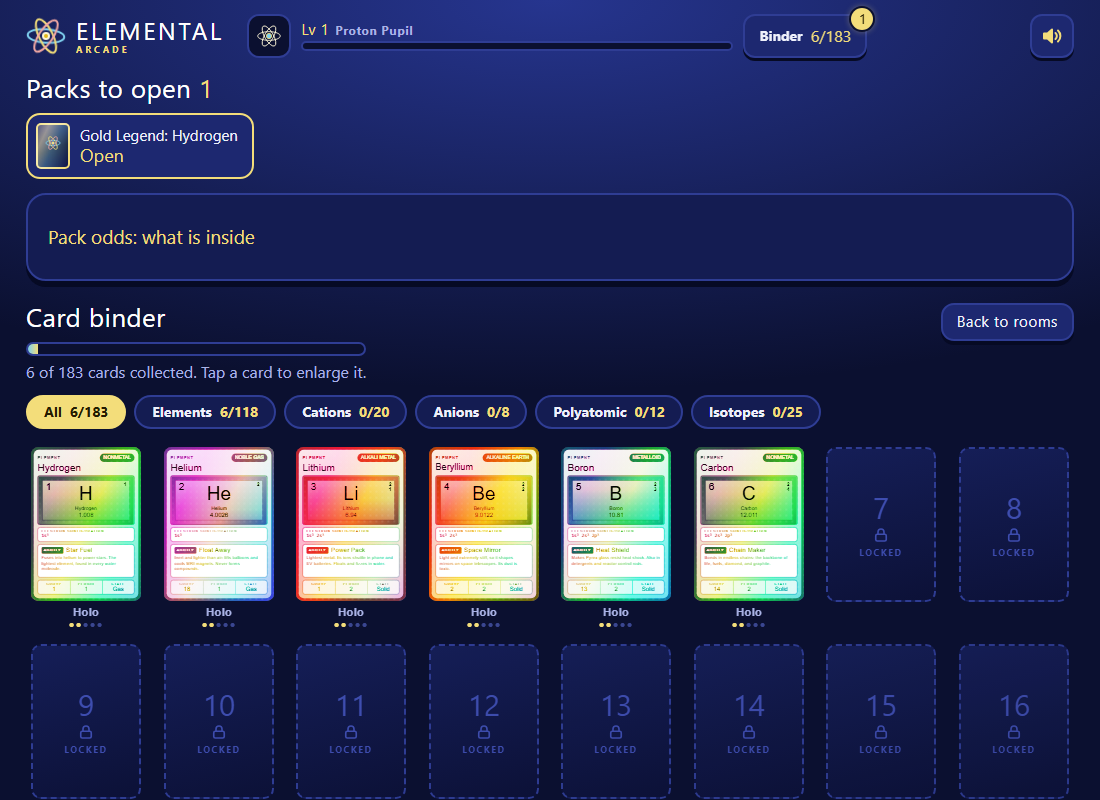
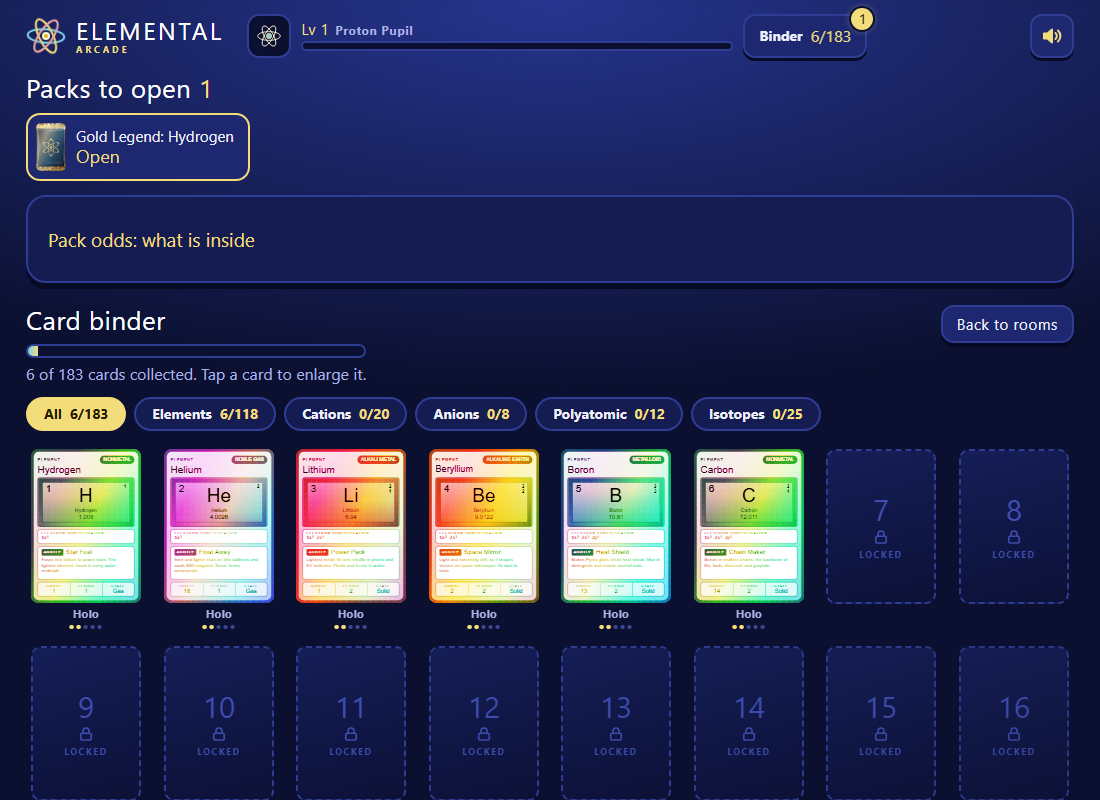
Pack art: generated wrapper (fal-ai/flux-2/flash, ~$0.047 incl. probe)
Probed flux-2/flash, flux/schnell and recraft-v3 with one prompt at
768x1024. flash scored 5.0 (recraft printed a Pokemon name, schnell lost
the gold); its probe image ships as img/pack.webp (local flood-fill to
transparent, 440x712, 41 KB). Used for the big pack and the binder
thumbnail with a masked CSS sheen; the tear strip is the pack's own top.
Card backs, finishes and gold icons stay CSS. Probe table and spend in
design/pack-art.md. No key in the repo.

diff --git a/index.html b/index.html
@@ -333,6 +333,10 @@ body.pkopen{overflow:hidden}
 .pkhint{margin:0;color:var(--mute);font-size:14px;text-align:center;min-height:1.4em}
 .pkart{position:relative;display:block;overflow:hidden;border-radius:10px;background:linear-gradient(160deg,#1d2870,#0b1030 55%,#161f58);box-shadow:inset 0 0 0 3px #f3dd7a,inset 0 0 0 6px #0b1030,inset 0 0 0 8px #a98d1a}
 .pkart.lg{width:min(220px,58vw);aspect-ratio:3/4}
+.pkart.pkimg{background:url(img/pack.webp) center/100% 100% no-repeat;box-shadow:none;border-radius:6px;aspect-ratio:440/712}
+.pkart.pkimg.lg{width:min(210px,52vw)}
+.pkart.pkimg.sm{width:30px;height:auto;box-shadow:none}
+.pkart.pkimg .pkfoil{-webkit-mask:url(img/pack.webp) center/100% 100%;mask:url(img/pack.webp) center/100% 100%}
 .pkart.sm{width:34px;height:46px;border-radius:5px;flex:none;box-shadow:inset 0 0 0 2px #f3dd7a}
 .pkart.card{width:100%;height:100%;border-radius:10px}
 .pkfoil{position:absolute;inset:0;background:linear-gradient(115deg,transparent 20%,rgba(243,221,122,.0) 30%,rgba(255,240,180,.55) 45%,rgba(127,209,240,.35) 55%,transparent 70%);background-size:260% 260%;animation:finsheen 3.8s linear infinite;mix-blend-mode:screen}
@@ -343,7 +347,7 @@ body.pkopen{overflow:hidden}
 .pkcrimp{position:absolute;left:0;right:0;height:10px;background:repeating-linear-gradient(90deg,#f3dd7a 0 6px,#a98d1a 6px 12px)}
 .pkcrimp.t{top:0}.pkcrimp.b{bottom:0}
 .pack{position:relative;touch-action:none;cursor:grab;user-select:none;-webkit-user-select:none;filter:drop-shadow(0 18px 30px rgba(0,0,0,.5))}
-.pkstrip{position:absolute;left:0;right:0;top:0;height:16%;border-radius:10px 10px 0 0;background:repeating-linear-gradient(90deg,#f3dd7a 0 6px,#a98d1a 6px 12px);box-shadow:0 2px 0 rgba(0,0,0,.25);transition:transform .2s}
+.pkstrip{position:absolute;left:0;right:0;top:0;height:11%;background:url(img/pack.webp) top/100% auto no-repeat;transition:transform .2s}   /* the pack's own top crimp: dragging pulls it off */
 .pack.torn .pkstrip{animation:tearoff .45s cubic-bezier(.3,.6,.4,1) forwards}
 .pack.torn .pkart{animation:packpop .5s ease-out forwards}
 .pack.torn::after{content:'';position:absolute;inset:-30%;border-radius:50%;background:radial-gradient(circle,rgba(255,243,176,.95),rgba(243,221,122,0) 60%);animation:flash .5s ease-out forwards;pointer-events:none}
@@ -1272,7 +1276,10 @@ function binderHTML(){
 }
 /* Binder top: unopened packs, then the odds in plain numbers (straight from PACK_ODDS, so they cannot drift). */
 const packWhy=p=>p.reason==='vs'?'VS win':'Gold Legend: '+((BY[p.cardId]||{}).name||'a card');
-const packArt=sz=>'<span class="pkart '+sz+'" aria-hidden="true"><span class="pkfoil"></span><span class="pklogo">'+atomLogo+'</span><span class="pkname">ELEMENTAL<br>PACK</span><span class="pkcrimp t"></span><span class="pkcrimp b"></span></span>';
+// The pack itself (big and binder thumbnail) is generated art, img/pack.webp (design/pack-art.md) with a CSS sheen;
+// card backs keep the CSS foil design.
+const packArt=sz=>sz==='card'?'<span class="pkart card" aria-hidden="true"><span class="pkfoil"></span><span class="pklogo">'+atomLogo+'</span><span class="pkcrimp t"></span><span class="pkcrimp b"></span></span>'
+  :'<span class="pkart pkimg '+sz+'" aria-hidden="true"><span class="pkfoil"></span></span>';
 function packsHTML(){
   const n=S.packs.length;
   const list=n?'<div class="packrow">'+S.packs.map(p=>'<button class="minipack" data-act="pack-open" data-id="'+esc(p.id)+'">'+packArt('sm')+'<span>'+esc(packWhy(p))+'<b>Open</b></span></button>').join('')+'</div>':'';

diff --git a/design/pack-art.md b/design/pack-art.md
@@ -1,30 +1,44 @@
 # Elemental Arcade: pack art
 
-## Result: no generated art, $0 spent
+## Result: one generated pack wrapper, about $0.047 spent
 
-The pack wrapper ships as CSS: a navy foil pack with gold crimped edges, a moving foil sheen, the game's atom logo and "ELEMENTAL PACK" (`.pkart` in `index.html`). The card backs in the opening scene use the same CSS. The four finishes and the gold icon treatment are CSS too.
+The pack in the opening scene and the binder thumbnail are `img/pack.webp`, generated with `fal-ai/flux-2/flash`. A CSS foil sheen moves over it, masked to the pack's shape. The tear strip is the top of the same image, so dragging it pulls off the pack's own crimp. Card backs, the four finishes and the gold icon treatment stay CSS.
 
-| Item | Source | Cost |
-|---|---|---|
-| Pack wrapper | CSS (`.pkart`, `.pkfoil`, `.pkcrimp`) | $0 |
-| Card backs | the same CSS | $0 |
-| Finishes (foil, holo, night, ember) | CSS over the existing card | $0 |
-| Gold icons (50) | existing rare art from `design/icons/rare/` (PR #14), resized to 128 px WebP, plus a CSS ring and sheen | $0 |
-| Winnable icons (34) | existing art from `design/icons/new/` and `new2/`, resized to 128 px WebP | $0 |
-| **fal.ai total** | | **$0.00** |
+## Probe (prices checked 2026-10-10)
 
-## Why there is no probe table
+The same prompt went to three models at `image_size: "portrait_4_3"` (768x1024, 0.79 MP), safety checker on:
 
-The plan was to price current fal.ai text-to-image models, probe at most $1.00 on 2 or 3 of them with "flat foil booster pack, navy and gold, no letters", score them, and lock one for a single wrapper.
+`flat foil booster pack, navy and gold, no letters, single sealed trading card pack centered, crimped gold edges, atom symbol, glossy foil sheen, solid dark navy background`
 
-The first fal.ai request (a read-only price lookup) was blocked by the coding agent's safety check (the auto-mode classifier flagged it as credential use). The agent did not retry it or work around it. So no model was priced, probed or used. The task allowed this case ("If the wrapper is not worth a generation, ship a CSS foil pack and spend $0"), so the CSS pack is the shipped design.
+Prices come from the fal.ai pricing API on the day of the probe.
 
-The key was never written to the repo, a commit, a log or any file in the branch.
+| Model | Price | $/image here | Reads as a pack at phone size | No garbled text | On palette | Not a brand ripoff | Avg | Notes |
+|---|---|---:|:-:|:-:|:-:|:-:|:-:|---|
+| **fal-ai/flux-2/flash** | $0.005/MP | $0.004 | 5 | 5 | 5 | 5 | **5.0** | Flat front view, gold crimped ends, navy body, gold atom. **Picked.** |
+| fal-ai/flux/schnell | $0.003/MP | $0.0024 | 4 | 5 | 3 | 5 | 4.25 | Plain navy bag with no gold edges, on a black background. |
+| fal-ai/recraft/v3/text-to-image | $0.04/image | $0.04 | 4 | 1 | 4 | 1 | 2.5 | Angled photo. It printed "Rotom" on the pack, which is a Pokémon name: fails the text and brand checks. |
+| fal-ai/flux/dev | $0.025/MP | $0.02 | | | | | | Priced, not probed: 5x flash's price, and flash already scored 5. |
 
-## If a generated wrapper is wanted later
+**Rule:** a model at 10x the price needs at least +1.5 average points to win. flash was both the best and the second cheapest, so it was locked. Its probe image met every check, so no batch was needed: the probe image is the shipped art.
 
-1. Allow the fal.ai call for the session, then run the probe (2 or 3 models, about $0.01 to $0.05 total at 3:4) and record model, $/image, date and a 1 to 5 score in a table here.
-2. Save the pick as `img/pack.webp` (about 360x480, compressed) and set it as the background of `.pkart.lg`. Keep the CSS foil sheen on top.
-3. School filter: no text that has to be read, no brands, no real people.
+## Processing (local, free)
 
-Icon sizes: 84 WebP files at 128x128, 315 KB in total (the source PNGs are about 230 KB each). They are shown at 64 px, so 128 px stays sharp on 2x screens.
+- The border-connected navy background (RGB about 10, 20, 48) was made transparent with a flood fill. No AI background removal was used.
+- Cropped to the pack and resized to 440x712.
+- WebP at quality 84: **41 KB**. It is shown at up to 210 px wide, so 440 px stays sharp on 2x screens.
+
+## Spend
+
+| | Generations | Cost |
+|---|---:|---:|
+| Probes (3 models) | 3 | about $0.047 |
+| Batch | 0 | $0 |
+| **Total** | **3** | **about $0.047 of the $5 budget** |
+
+## Key handling
+
+The fal.ai key was passed only as an environment variable on each command line. The helper script contains no key; it reads `FAL_KEY` from the environment and redacts the key from any error it prints. The key is not in the repo, a commit, the PR, a screenshot, a log or a design doc, and the staged diff was scanned for it before committing. **Revoke the key.**
+
+## Icons (no fal spend)
+
+The 34 pack icons and 50 gold icons reuse the existing art in `design/icons/new`, `new2` and `rare` (PRs #12 to #14). They were resized to 128 px WebP in `img/icons/`: 84 files, 315 KB in total.

diff --git a/README.md b/README.md
@@ -39,7 +39,7 @@ Each pack has 3 cards: a staple (a special finish on one of your cards, or XP), 
 
 Guests keep their packs, finishes and unlocked icons on the device (local storage), as with their cards. Signed-in students keep them on their account, and they merge across devices without duplicating a pack or losing an unlock.
 
-Art: the pack icons and gold icons reuse the existing icon art (`design/icons/`), resized into `img/icons/`. The pack wrapper is CSS. No fal.ai art was generated for packs (`design/pack-art.md`). The fal.ai key provided for this work was never written to the repository.
+Art: the pack icons and gold icons reuse the existing icon art (`design/icons/`), resized into `img/icons/`. The pack wrapper (`img/pack.webp`) was generated with fal.ai (`fal-ai/flux-2/flash`, about $0.05 including the model probe; see `design/pack-art.md`). The fal.ai key used for it was passed on the command line only and was never written to the repository.
 
 ## VS Arena (live multiplayer, 2 to 20 players)
 
